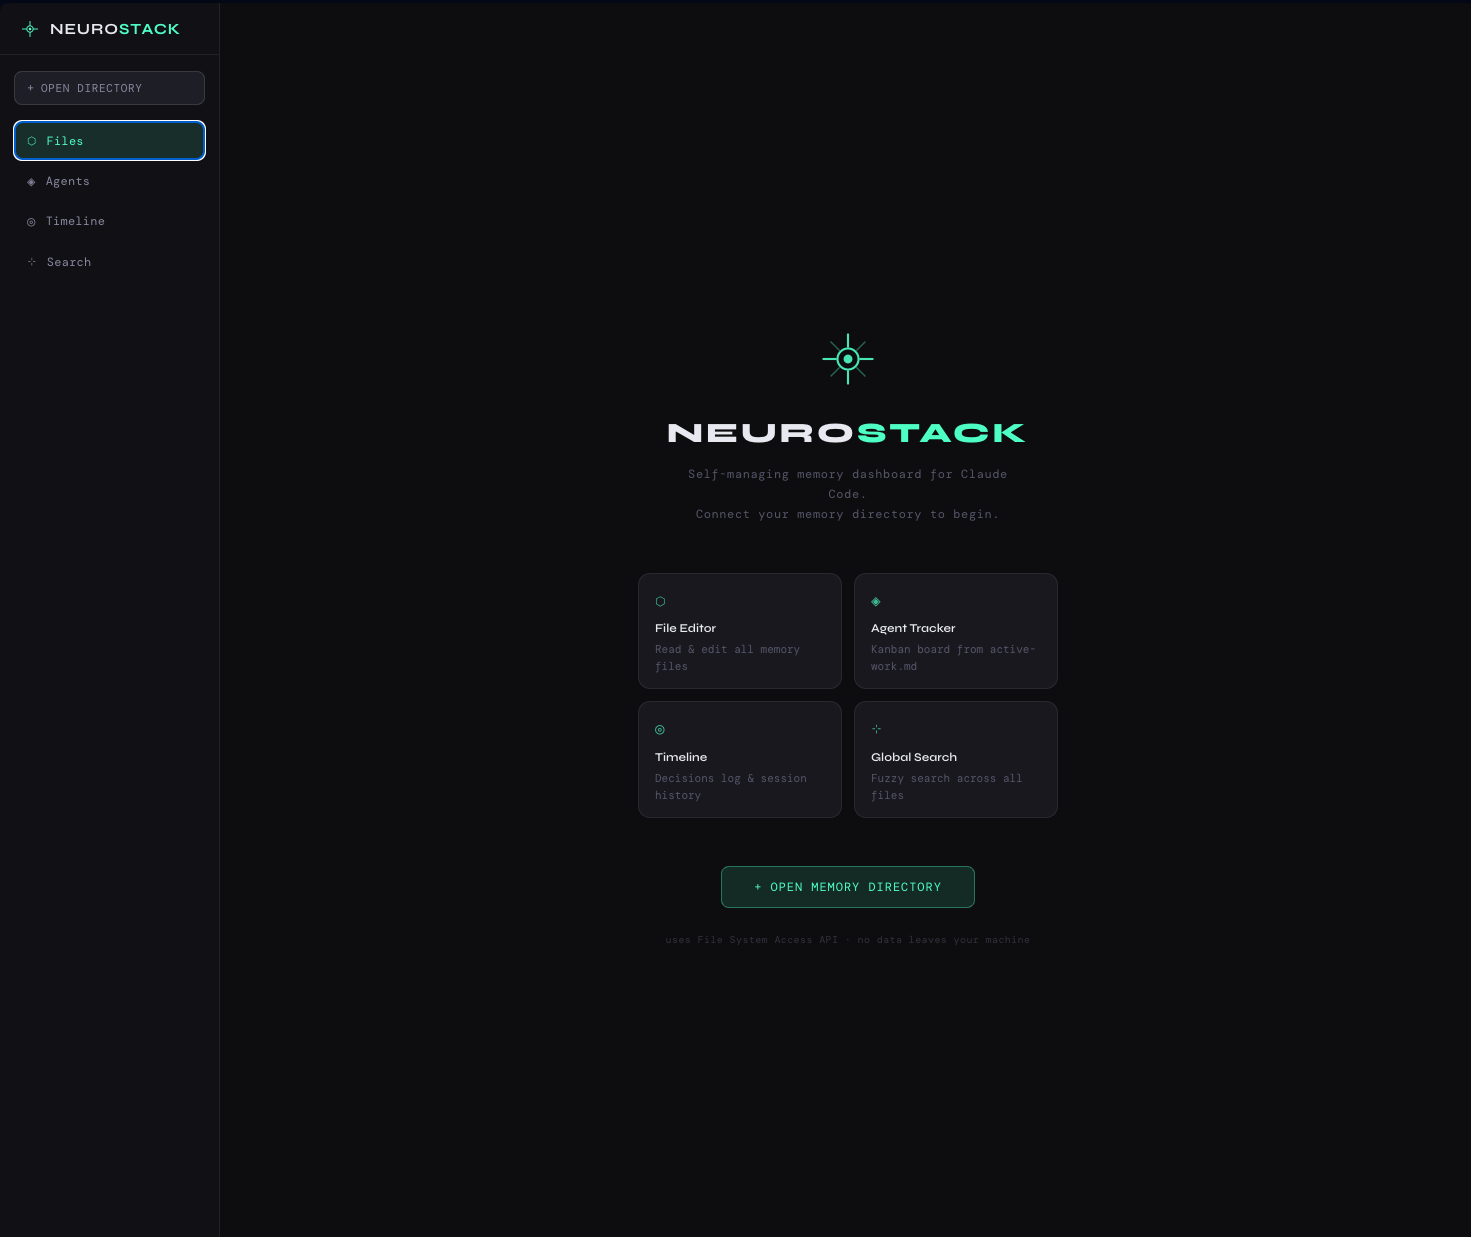
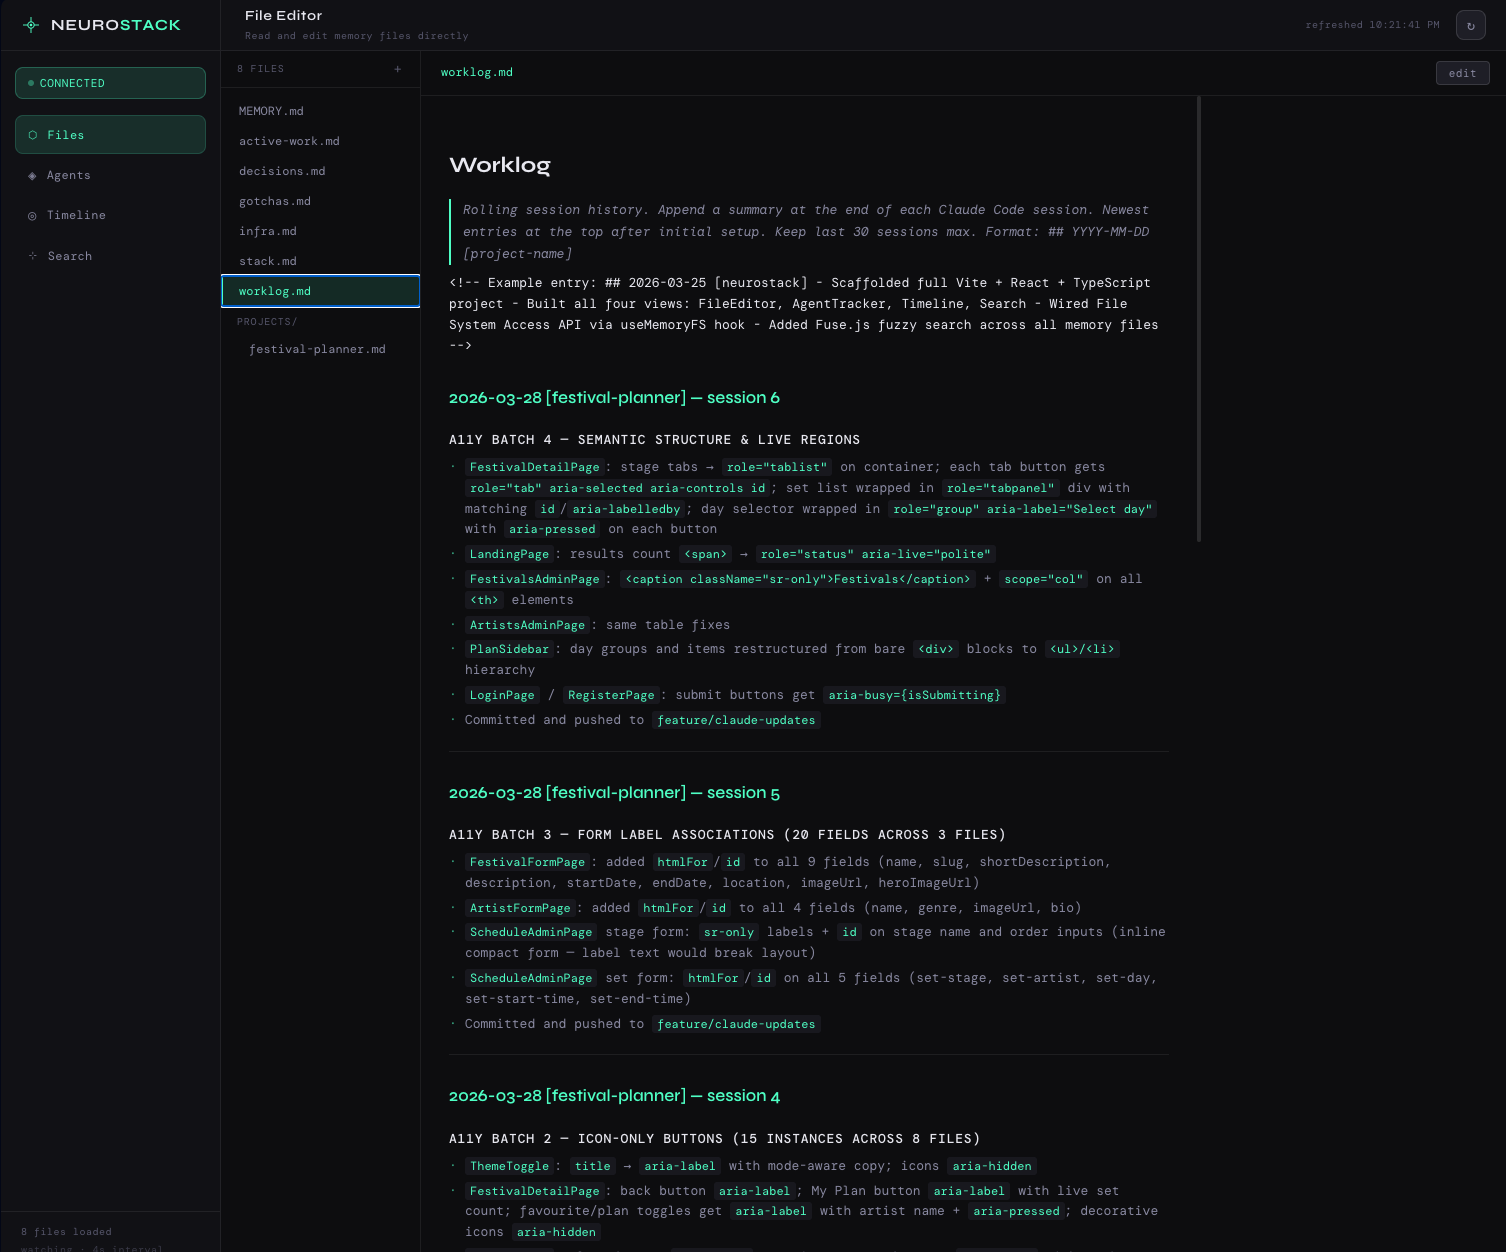
new photo

diff --git a/src/data/projects.ts b/src/data/projects.ts
@@ -112,7 +112,7 @@ export const projects: Project[] = [
   {
     id: 'setlist',
     slug: 'setlist',
-    title: 'SetList v1.0',
+    title: 'SetList v1.1',
     description:
       'A full-stack music festival planner with auth, festival discovery, per-stage schedule browsing, favorites, personal set-time planning, and real-time conflict detection.',
     tech: [
@@ -172,7 +172,7 @@ export const projects: Project[] = [
   {
     id: 'neurostack',
     slug: 'neurostack',
-    title: 'NeuroStack v1.0',
+    title: 'NeuroStack v1.1',
     description:
       'A self-managing memory dashboard for Claude Code. Solves the blank-slate problem in agentic AI workflows by giving every session — and every parallel agent — shared, structured context. Reads and writes a directory of markdown memory files directly from the browser via the File System Access API, with a live file editor, multi-agent Kanban board, decisions timeline, and fuzzy full-text search.',
     tech: [
